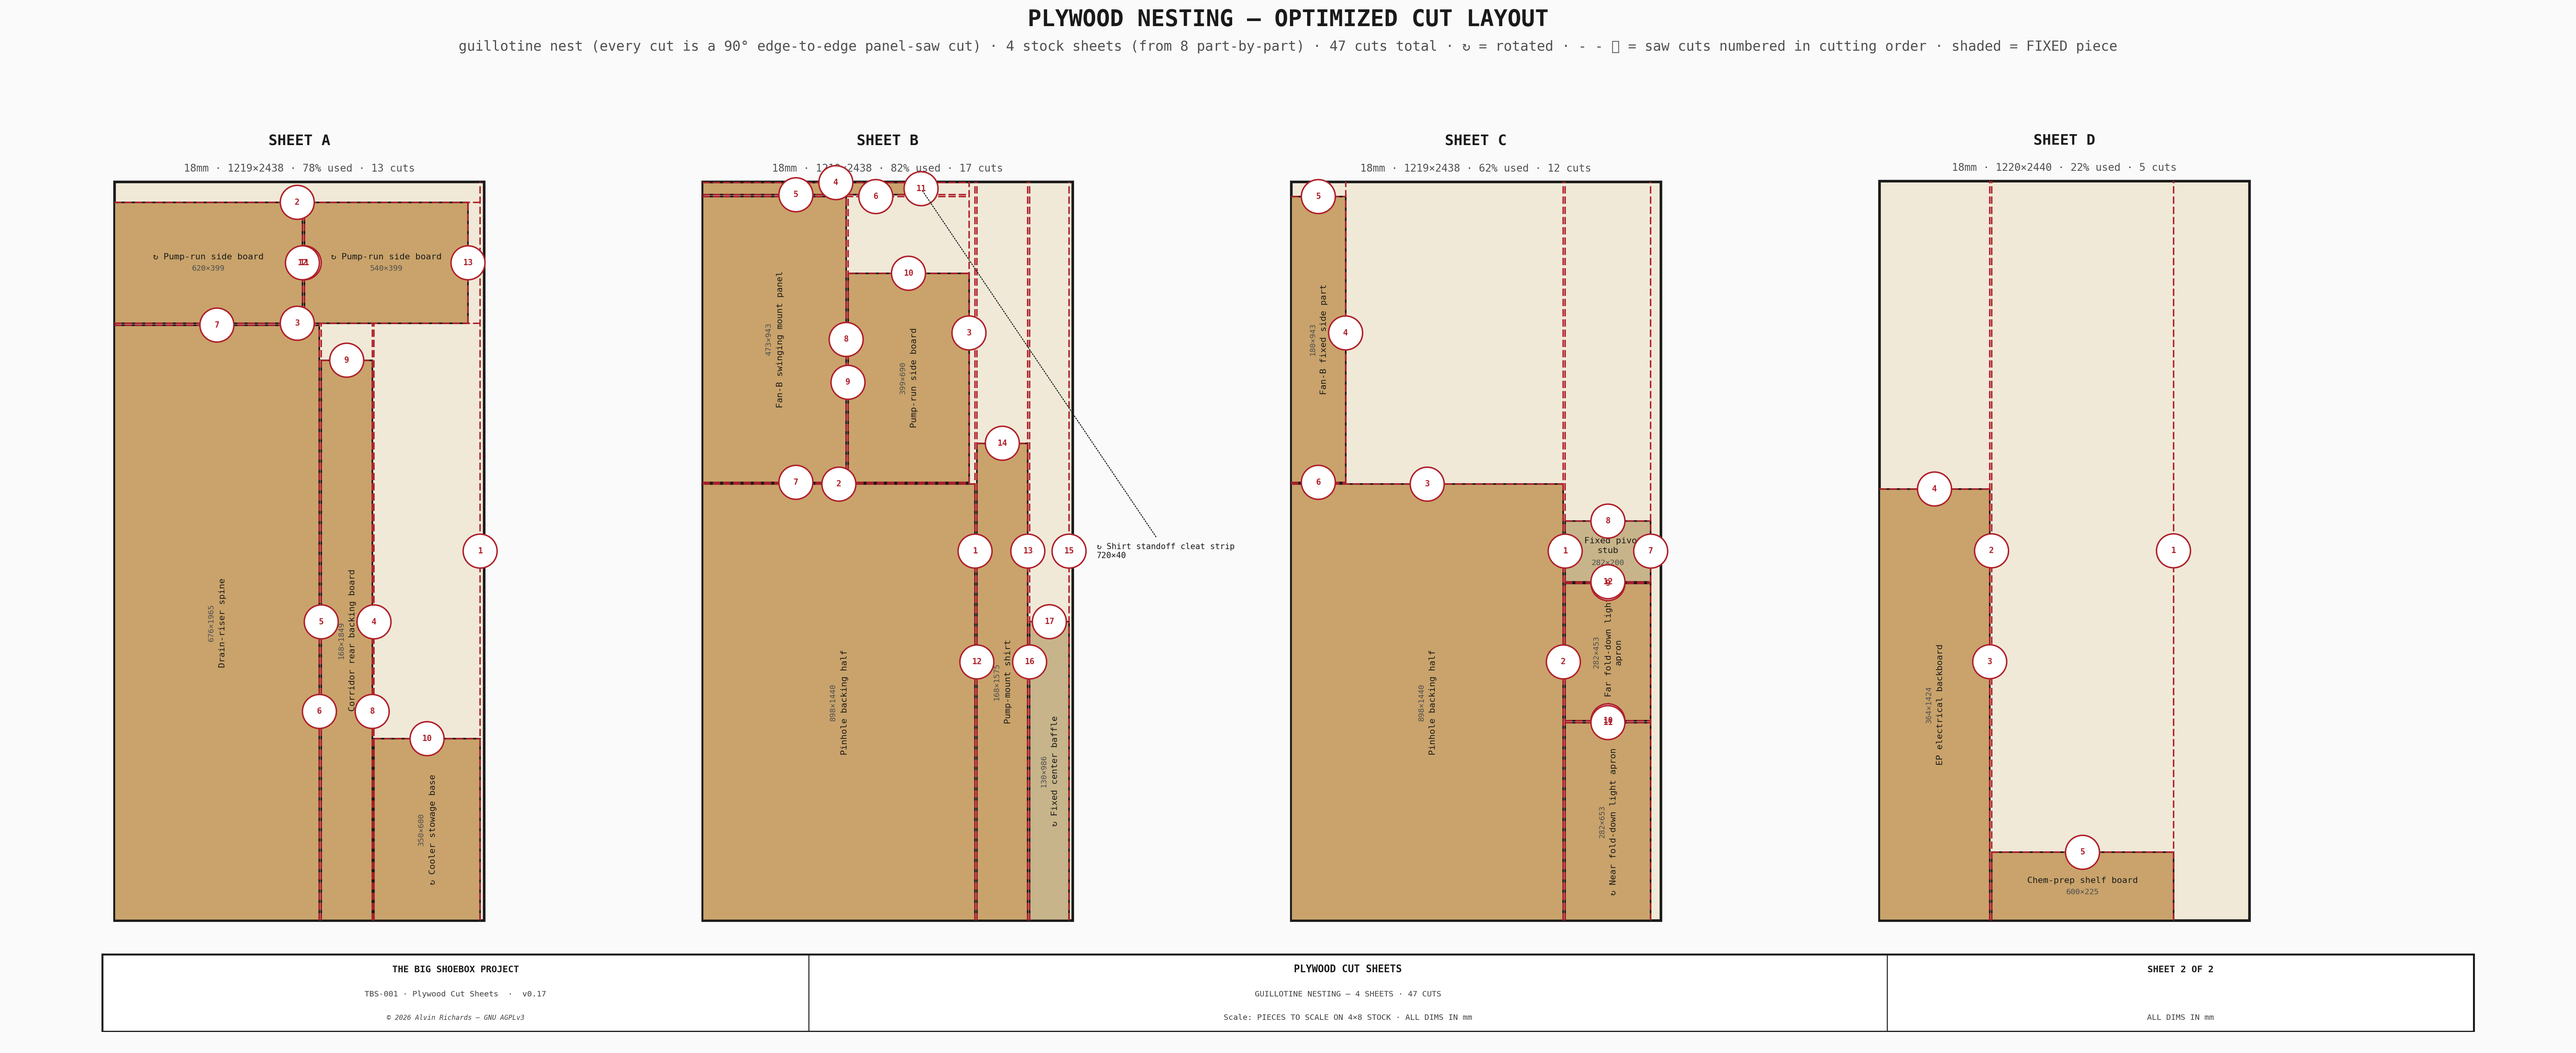
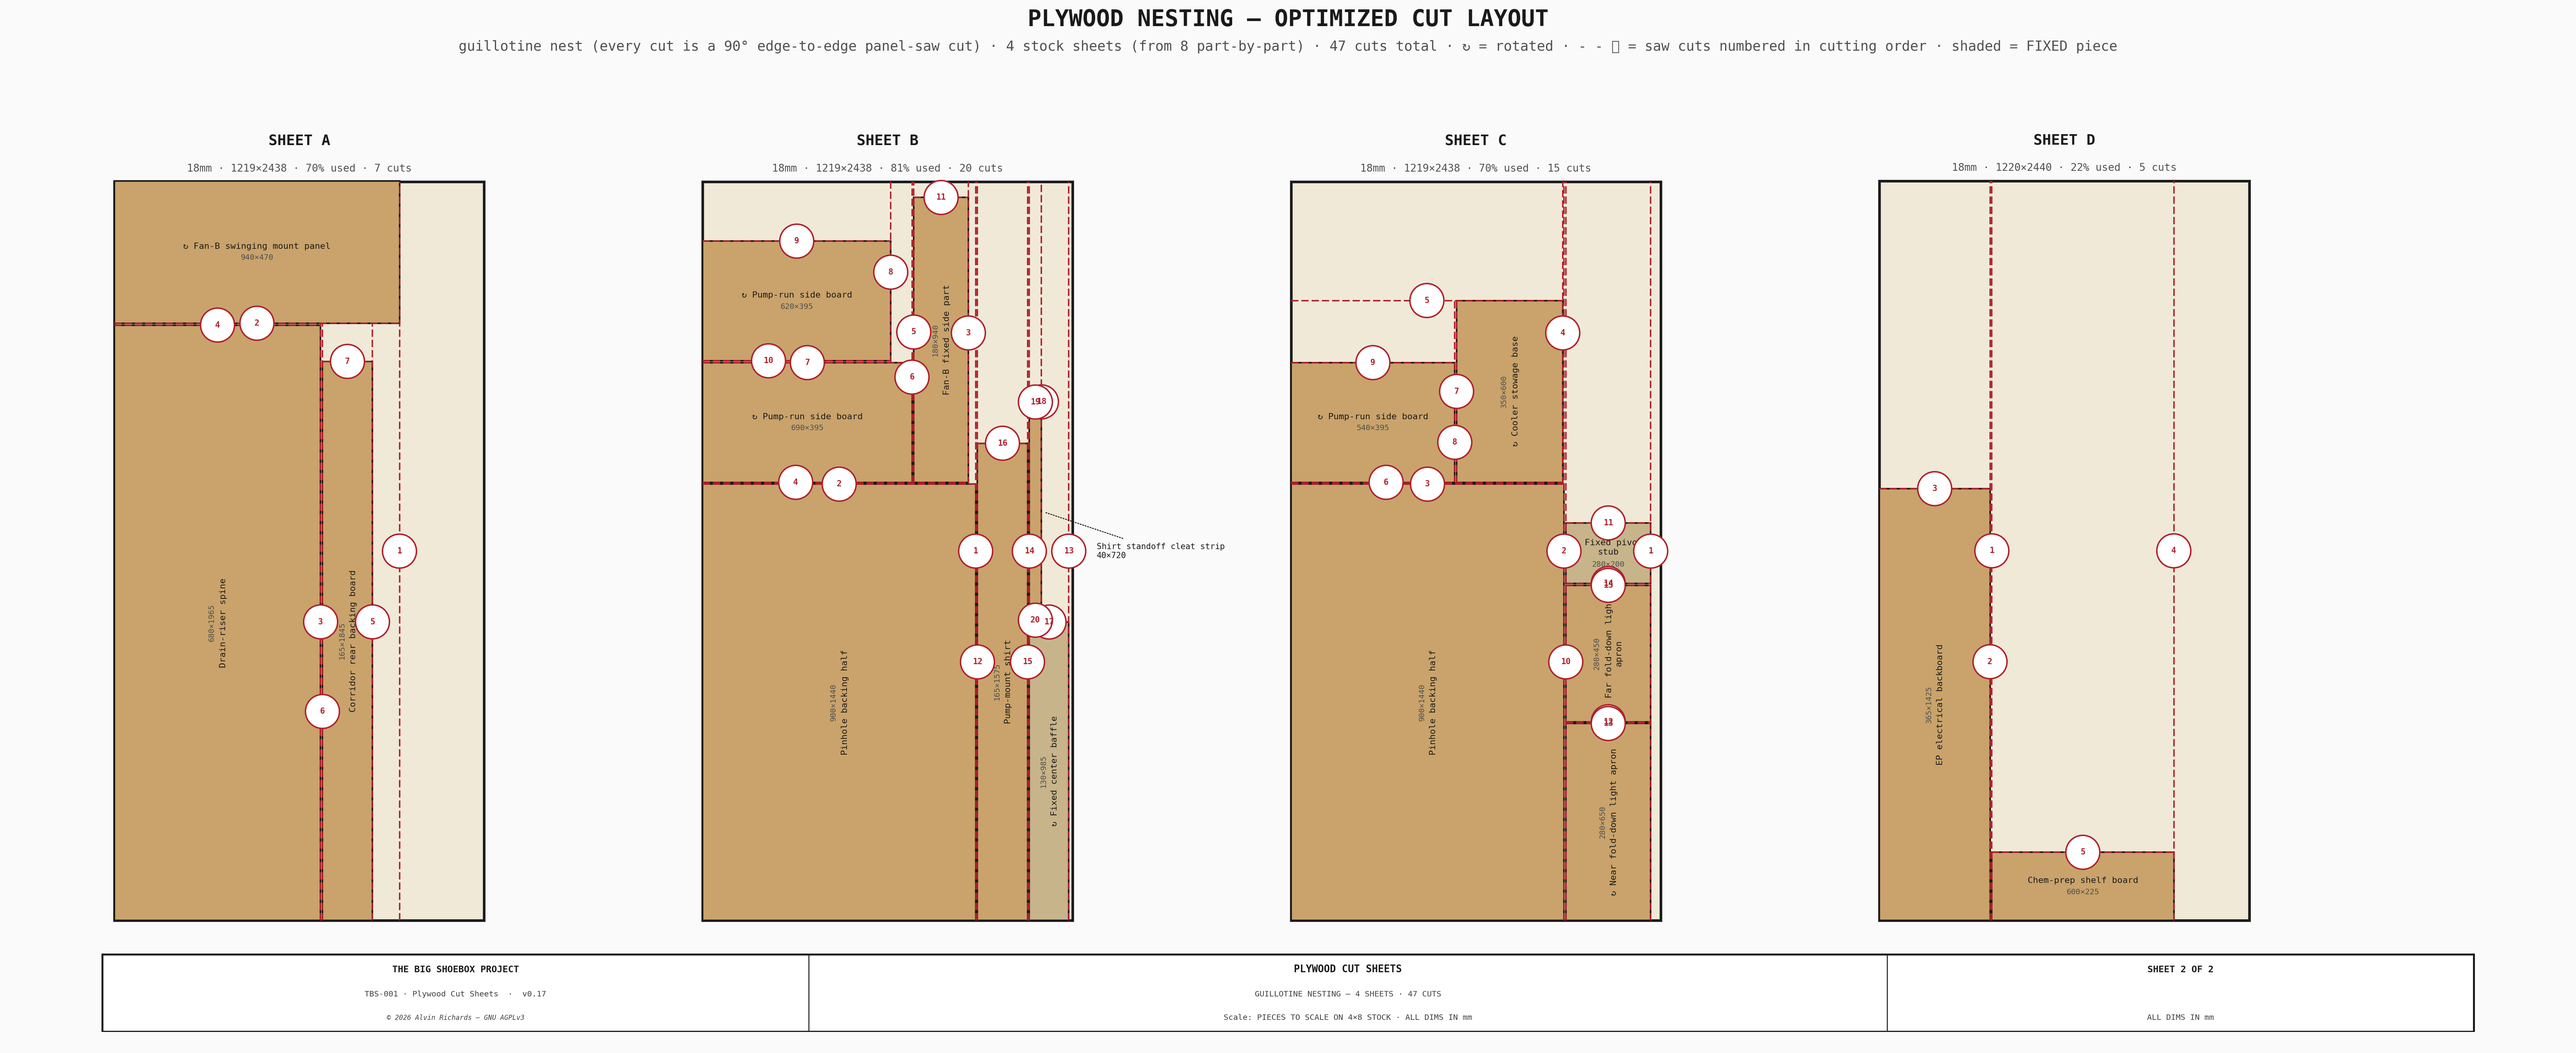
plywood cut-sheet: standardize all piece sizes to a 5mm cut nominal
Geometry untouched — only the CUT nominal rounds, via two registry helpers:
- overlay boards round UP (oversize, trimmed): pinhole 898->900, EP 364x1424
  ->365x1425, spine 676->680.
- structural/between-members boards round DOWN into their opening (0-4mm
  clearance): corridor 168x1849->165x1845, pump-run 399->395, shirt 168->165,
  aprons 653/453x282->650/450x280, pivot stub 282->280, baffle 986->985,
  Fan-B 473x943->470x940.
No geometry constant moved, so no model/diagram cascade; fasteners stay
frame-referenced; light-seal undersize absorbed by brush/lap seals. Schedule
still 4 sheets / 47 cuts, no cost change.

diff --git a/src/generators/generate_plywood_cutsheets.py b/src/generators/generate_plywood_cutsheets.py
@@ -46,31 +46,43 @@ C_STOCK = "#F0E9D8"      # stock-sheet ground
 C_STUB = "#C7B48A"       # fixed (non-fold) piece, distinguished from a fold-down apron
 C_CUT = "#B0202A"        # guillotine saw-cut line (dashed red)
 
-# ── derived cut dimensions (geometry-driven → from tbs_constants; cannot drift) ─────────────
-PINHOLE_W = PWP_PANEL_X1 - PWP_PANEL_X0                  # 1795 — pinhole-wall panel width (X span)
-PINHOLE_HALF = round(PINHOLE_W / 2)                      # 898  — cut as 2 butt-jointed halves (1795 > 1219 stock width)
-APR_NEAR_W = PANEL_CORNER_YD_L                           # 653  — near fold-down apron (Yd0→653)
-APR_FAR_W = (C_WID - APRON_FIX_W) - PANEL_CORNER_YD_R    # 453  — far apron (Yd1709→2162)
-BAFFLE_W = APRON_IN_R - APRON_IN_L                      # 986  — fixed center baffle (matches hinge-panel Sheet 16: inner apron edges)
-APR_CORNER_H = PANEL_FLOOR_GAP_SIDE                     # 282  — corner floor gap the aprons/stub close
-APR_CENTER_H = LT_CAGE_BOT - 10                         # 130  — baffle top at the cage underside (matches the drawing)
+# ── 5mm cut standardization (geometry UNTOUCHED — only the cut nominal rounds) ──────────────
+# Each piece's exact dim stays single-sourced to its geometry constant; these wrappers set the
+# fabricated CUT to a 5mm nominal without moving any constant (so every model/diagram that reads
+# the geometry is unaffected):
+#   · OVERLAY boards (mount on a wall face with clearance) round UP   — oversize, trimmed to fit.
+#   · STRUCTURAL / between-members boards round DOWN — cut inside the opening (0–4mm clearance),
+#     so the surrounding frame/zone is untouched (an up-rounded board wouldn't fit the gap).
+def _r5up(v): v = round(v); return v + (-v) % 5
+def _r5dn(v): v = round(v); return v - v % 5
 
-# ── corridor plumbing-panel pieces — DERIVED from the 3D corridor water-panel model (single source:
-#    the cut sizes TRACK the model and can't drift). yw = corridor clear Yd width; bw = board X length.
-_YW = round((cwp.YD_FAR - cwp.S) - (cwp.YD_NEAR + cwp.S))        # 168  — shirt + rear-panel face width
-_BW = round(cwp.SB_X1 - cwp.SB_X0)                              # 399  — pump-run support board length
-BACK_H = round(cwp.PANEL_TOP_Z - cwp.S)                        # 1849 — rear backing board height
-SHIRT_H = round(cwp.PANEL_TOP_Z - cwp.SHIRT_Z0)               # 1575 — shirt height (top at the Fan-A window)
-SPINE_W = round(cwp.SPINE_X_END - cwp.BACK_X)                 # 456  — drain-riser spine length
-SPINE_H = round((cwp.TOP_Z - cwp.S) - cwp.SPINE_Z0)          # 1965 — drain-riser spine height
-PUMPRUN_FAR_H = round(cwp.SB_FAR_Z[1] - cwp.SB_FAR_Z[0])       # 420
-PUMPRUN_NEAR_H = round(cwp.SB_NEAR_Z[1] - cwp.SB_NEAR_Z[0])    # 420
-PUMPRUN_UP_H = round(cwp.SB_NEAR_UP_Z[1] - cwp.SB_NEAR_UP_Z[0])  # 690
+# ── derived cut dimensions (geometry-driven → from tbs_constants; the CUT rounds to 5mm) ─────
+PINHOLE_W = PWP_PANEL_X1 - PWP_PANEL_X0                  # 1795 — true pinhole-wall face width (X span)
+PINHOLE_HALF = _r5up(PINHOLE_W / 2)                      # 900  — overlay: 2 halves, each cut over + trimmed to the 1795 face
+APR_NEAR_W = _r5dn(PANEL_CORNER_YD_L)                    # 650  — near fold-down apron (in the 653 corner zone)
+APR_FAR_W = _r5dn((C_WID - APRON_FIX_W) - PANEL_CORNER_YD_R)  # 450  — far apron (in the 453 zone)
+BAFFLE_W = _r5dn(APRON_IN_R - APRON_IN_L)                # 985  — fixed center baffle (in the 986 inner-apron span)
+APR_CORNER_H = _r5dn(PANEL_FLOOR_GAP_SIDE)               # 280  — corner floor gap the aprons/stub close (282)
+APR_CENTER_H = _r5dn(LT_CAGE_BOT - 10)                   # 130  — baffle top at the cage underside (already 5mm)
+FANB_W_CUT = _r5dn(FAN_B_BAND_W)                         # 470  — Fan-B swinging panel (in the 473 band zone)
+FANB_H_CUT = _r5dn(FAN_B_BAND_H)                         # 940  — Fan-B band height (943)
 
-# ── EP electrical backboard — DERIVED from the electrical model's ply extents (single source: the
-#    gear-column geometry + a 12mm ply margin each side, matching generate_electrical_model.py).
-EP_BACK_W = EP_COL_W + 24                                # 364  — EP column width + 12mm margin each side
-EP_BACK_H = (EP_H_HI - BA_H_LO) + 24                     # 1424 — gear span (battery base → MPPT top) + 12mm top/bottom
+# ── corridor plumbing-panel pieces — DERIVED from the 3D corridor water-panel model; STRUCTURAL
+#    (fit between posts) → round DOWN. yw = corridor clear Yd width; bw = board X length.
+_YW = _r5dn((cwp.YD_FAR - cwp.S) - (cwp.YD_NEAR + cwp.S))  # 165  — shirt + rear-panel face (168 corridor clear Yd)
+_BW = _r5dn(cwp.SB_X1 - cwp.SB_X0)                        # 395  — pump-run support board length (399 post window)
+BACK_H = _r5dn(cwp.PANEL_TOP_Z - cwp.S)                  # 1845 — rear backing board height (1849 to the fan baffle)
+SHIRT_H = _r5dn(cwp.PANEL_TOP_Z - cwp.SHIRT_Z0)          # 1575 — shirt height (already 5mm)
+SPINE_W = _r5up(cwp.SPINE_X_END - cwp.BACK_X)            # 680  — overlay fin on the rear panel → round UP (676)
+SPINE_H = _r5dn((cwp.TOP_Z - cwp.S) - cwp.SPINE_Z0)      # 1965 — drain-riser spine height (already 5mm)
+PUMPRUN_FAR_H = _r5dn(cwp.SB_FAR_Z[1] - cwp.SB_FAR_Z[0])   # 620 (already 5mm)
+PUMPRUN_NEAR_H = _r5dn(cwp.SB_NEAR_Z[1] - cwp.SB_NEAR_Z[0])  # 540 (already 5mm)
+PUMPRUN_UP_H = _r5dn(cwp.SB_NEAR_UP_Z[1] - cwp.SB_NEAR_UP_Z[0])  # 690 (already 5mm)
+
+# ── EP electrical backboard — DERIVED from the electrical model's ply extents; OVERLAY on the
+#    interior wall → round UP (gear-column geometry + a 12mm ply margin each side).
+EP_BACK_W = _r5up(EP_COL_W + 24)                         # 365  — EP column width + 12mm margin each side (364)
+EP_BACK_H = _r5up((EP_H_HI - BA_H_LO) + 24)              # 1425 — gear span (battery base → MPPT top) + 12mm (1424)
 
 STOCK_8x4 = (1219, 2438)     # nominal 4'×8' sheet
 STOCK_HD = (1220, 2440)      # Home-Depot-stated 4'×8' for the SANDEPLY / UV-white lines
@@ -93,7 +105,7 @@ GROUPS = [
             ("Shirt standoff cleat strip", cwp.SHIRT_CLEAT_W, cwp.SHIRT_CLEAT_N * cwp.SHIRT_CLEAT_H, 1, f"one {cwp.SHIRT_CLEAT_W}×{cwp.SHIRT_CLEAT_N * cwp.SHIRT_CLEAT_H} strip, cut to {cwp.SHIRT_CLEAT_N}× {cwp.SHIRT_CLEAT_H}mm shirt-to-rear-panel standoff blocks"),
         ]),
         dict(key="pinhole-panel-ply-18", stock=STOCK_8x4, npieced=2, pieces=[
-            ("Pinhole backing half", PINHOLE_HALF, PWP_PANEL_H, 2, f"3× Big Blue filters + P-04/SV-02/DV-02 skid row; 2 halves butt-jointed → the full {PINHOLE_W}×{PWP_PANEL_H} face (>1219 stock width)"),
+            ("Pinhole backing half", PINHOLE_HALF, PWP_PANEL_H, 2, f"3× Big Blue filters + P-04/SV-02/DV-02 skid row; 2 halves (each cut {PINHOLE_HALF}, trimmed) butt-jointed → the {PINHOLE_W}×{PWP_PANEL_H} face (>1219 stock width)"),
         ]),
         dict(key="panel-bottom-apron", stock=STOCK_8x4, pieces=[
             ("Near fold-down light apron", APR_NEAR_W, APR_CORNER_H, 1, "seals under-leaf light gap, near corner (18mm, flat-black interior face)"),
@@ -102,8 +114,8 @@ GROUPS = [
             ("Fixed center baffle", BAFFLE_W, APR_CENTER_H, 1, "fixed light baffle under the drum bay"),
         ]),
         dict(key="panel-fanb-ply", stock=STOCK_8x4, pieces=[
-            ("Fan-B swinging mount panel", FAN_B_BAND_W, FAN_B_BAND_H, 1, "swinging near-corner panel carrying the fan (travels with the hinge leaf; fan centered)"),
-            ("Fan-B fixed side part", FAN_B_FIXED_W, FAN_B_BAND_H, 1, "fixed near-corner side part (stays on the pinhole side)"),
+            ("Fan-B swinging mount panel", FANB_W_CUT, FANB_H_CUT, 1, "swinging near-corner panel carrying the fan (travels with the hinge leaf; fan centered)"),
+            ("Fan-B fixed side part", FAN_B_FIXED_W, FANB_H_CUT, 1, "fixed near-corner side part (stays on the pinhole side)"),
             ("Cooler stowage base", 600, 350, 1, "evap-cooler transit stow base — sits on the near walkway at the pinhole wall (X1450), 2× ratchet straps (walkway Sheet 1)"),
         ]),
     ]),
@@ -123,7 +135,7 @@ _DERIVED = {PINHOLE_W, PINHOLE_HALF, PWP_PANEL_H, APR_NEAR_W, APR_FAR_W, APRON_F
             APR_CORNER_H, APR_CENTER_H, SHELF_W, SHELF_DEPTH, EP_BACK_W, EP_BACK_H,
             _YW, _BW, BACK_H, SHIRT_H, SPINE_W, SPINE_H,
             cwp.SHIRT_CLEAT_W, cwp.SHIRT_CLEAT_N * cwp.SHIRT_CLEAT_H,
-            PUMPRUN_FAR_H, PUMPRUN_NEAR_H, PUMPRUN_UP_H, FAN_B_BAND_W, FAN_B_BAND_H, FAN_B_FIXED_W}
+            PUMPRUN_FAR_H, PUMPRUN_NEAR_H, PUMPRUN_UP_H, FANB_W_CUT, FANB_H_CUT, FAN_B_FIXED_W}
 
 CUT_MARGIN = 6       # saw kerf reserved between adjacent pieces (mm)
 FIT_TOL = 5          # plywood cut tolerance — a piece up to 5mm over a free rect still fits (a full-width

diff --git a/RELEASE.md b/RELEASE.md
@@ -29,6 +29,7 @@ is no separate publish step to run afterward.
 - **Tidy-labels tooling + skills refined from the October label-polish pass.** Mined the ~47 "Tidy labels" commits for patterns the drawing tooling could capture. `draw_dim_h`/`draw_dim_v`/`leader` now share one `LBL_BG` white-mask constant in `tbs_drawing.py` applied via `lbl_bg=True` (the bbox dict had been copy-pasted into all three helpers, with a typo); `tidy_labels.py` gained a deterministic *DIM offset-zero* flag (a dimension drawn with `offset=0` rides its own line and loses its extension ticks — a guaranteed collision, distinct from the scale-dependent offset the tool still won't judge); and the drawing skills now document `lbl_bg=True` as the canonical mask (with "a clear pocket beats the box"), the `offset=0` flag, `fs`+`offset` tuned together across a dense dim chain, and an explicit `wrap=` on every `draw_notes`. Pure tooling/refactor — output-neutral, no diagram re-renders.
 - **Pinhole-disc-holder 3D — M5→M6 component names reconciled.** The disc-holder model's thumb-screw tapped-hole and knob components were still named `M5` while the geometry was already M6 (`PDH_TS_D=6`, reconciled everywhere else since 2026-09-07). Flipped the label/comment text, re-sent the model, and re-pushed to Sketchfab in place (same UID/URL); `source_hash` refreshed. Geometry unchanged — a stale-label fix only.
 - **Plywood cut-sheet — remaining piece dims single-sourced + two board sizes reconciled.** Closed the residual half of the cut-sheet work: every piece now shares one source with the generator that draws it. The shirt standoff cleat (`40×720`) derives from new `SHIRT_CLEAT_*` constants in the corridor model (which also draws the blocks); the pinhole backing height is a new `PWP_PANEL_H=1440` constant both the `water` model and the registry read, and the model's backing draw now references `PWP_PANEL_*` instead of hardcoded `2780/920/1795/1440`. Two registry dims that had drifted from what's actually drawn were corrected to the authoritative drawing/model: the center baffle `1056×217 → 986×130` (hinge-panel Sheet 16: `APRON_IN_*`/`LT_CAGE_BOT`) and the EP electrical backboard `700×2000 → 364×1424` (electrical model: `EP_COL_W`/`EP_H_HI`/`BA_H_LO`). Confirmed the evap-cooler stow base's transit location (near walkway at the pinhole wall, 2× ratchet straps — walkway Sheet 1) and fixed its stale "cargo-door end" note. Models stay byte-identical (no re-send); the schedule still nests to 4 sheets / 47 cuts, so no cost change.
+- **Plywood cut sizes standardized to a 5mm cut nominal — geometry untouched.** Every plywood piece now cuts to a 5mm multiple without moving a single geometry constant (so no model/diagram re-renders beyond the cut sheet, no IBC-frame/hinge-panel cascade). Two rounding helpers set the cut nominal in the registry: **overlay boards round UP** (oversize, trimmed — pinhole backing `898→900`, EP backboard `364×1424→365×1425`, drain-riser spine `676→680`), while **structural / between-members boards round DOWN** into their opening with 0–4mm clearance (corridor backing `168×1849→165×1845`, pump-run `399→395`, shirt `168→165`, aprons `653/453→650/450 × 282→280`, pivot stub `282→280`, center baffle `986→985`, Fan-B band `473×943→470×940`). The surrounding frames, zones, and fastener positions are all read from the unchanged geometry, so nothing needs repositioning; the ≤4mm undersize on the light-seal aprons/baffle is well within the brush/lap seal coverage. Schedule still nests to 4 sheets / 47 cuts — no cost change.
 
 ## [0.17] — 2026-10-19
 
